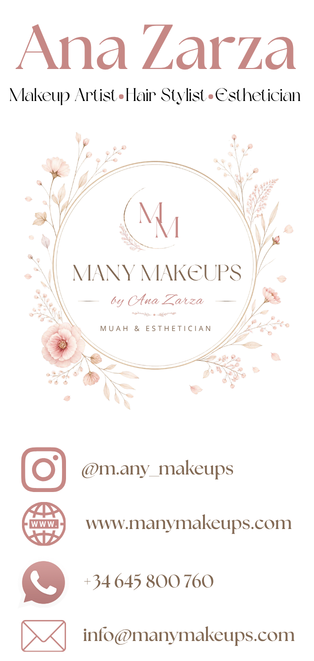
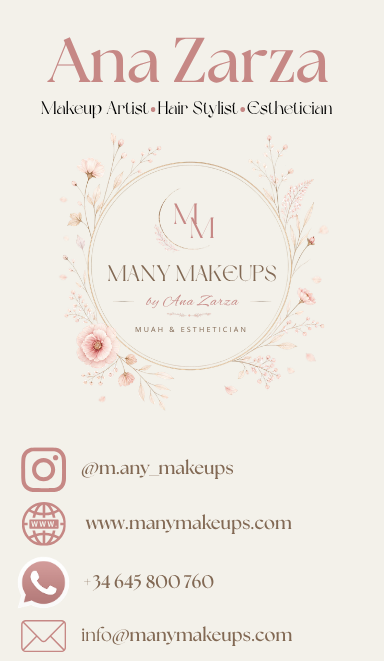
Use the new signature and show it smaller in the password email.

Changed region(s): [[0.0287, 0.0303, 0.9459, 0.6354], [0.0287, 0.6657, 0.9459, 0.9985], [0.6019, 0.8472, 0.6592, 0.9077]]

diff --git a/lib/portal/mail-html.ts b/lib/portal/mail-html.ts
@@ -1,6 +1,7 @@
 import { site } from "@/lib/site";
 
-const signatureUrl = `${site.url}/brand/firmas-correo/info.png`;
+const signatureUrl = `${site.url}/brand/firmas-correo/info.png?v=2`;
+const signatureWidth = 180;
 const typeface = "font-family:Helvetica,Arial,sans-serif;font-size:14px;line-height:1.5;";
 
 type MailBlock = { text: string; muted?: boolean } | { href: string; label: string };
@@ -47,7 +48,7 @@ export function brandedClientEmail(input: { blocks: MailBlock[]; signoff: string
               <td style="font-family:Helvetica,Arial,sans-serif;font-size:14px;line-height:1.5;color:#1a1613;">
                 ${body}
                 ${signoff}
-                <img src="${signatureUrl}" width="280" alt="Ana Zarza, Makeup Artist. Many Makeups. @m.any_makeups · www.manymakeups.com · +34 645 800 760 · info@manymakeups.com" style="display:block;width:280px;max-width:100%;height:auto;border:0;" />
+                <img src="${signatureUrl}" width="${signatureWidth}" alt="Ana Zarza, Makeup Artist. Many Makeups. @m.any_makeups · www.manymakeups.com · +34 645 800 760 · info@manymakeups.com" style="display:block;width:${signatureWidth}px;max-width:100%;height:auto;border:0;" />
               </td>
             </tr>
           </table>
